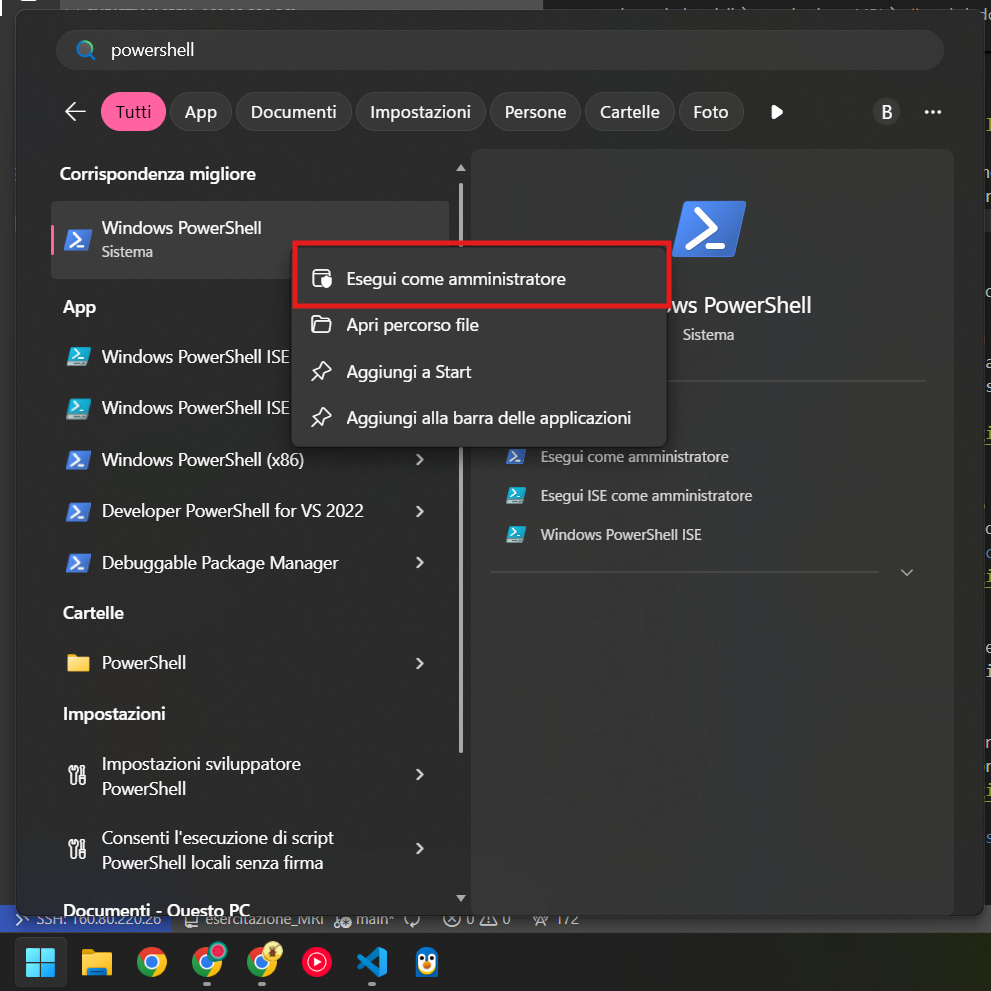
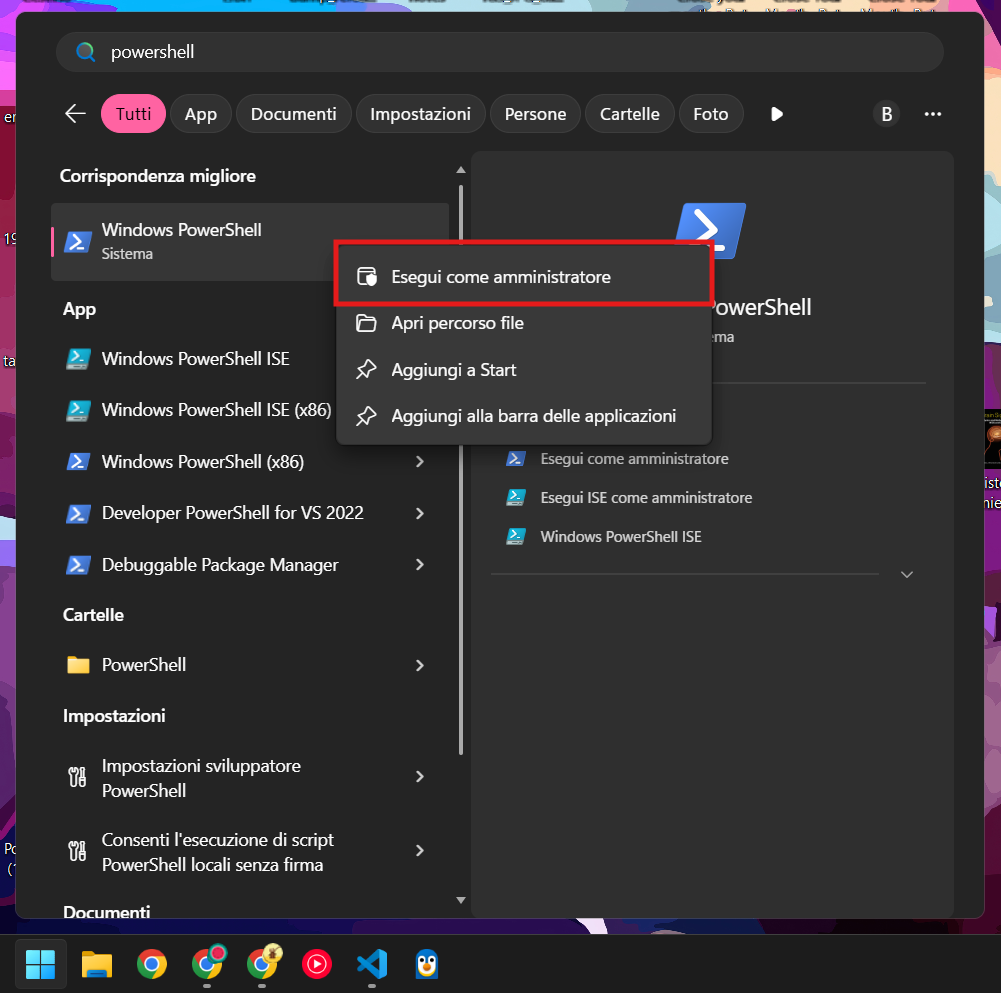
fslinstall

diff --git a/wsl.html b/wsl.html
@@ -1,0 +1,136 @@
+<!DOCTYPE html>
+<html lang="en">
+<head>
+    <meta charset="UTF-8">
+    <meta name="viewport" content="width=device-width, initial-scale=1.0">
+    <title>Esercitazione Neuroscienze Industriali</title>
+    <style>
+        body {
+            font-family: -apple-system, BlinkMacSystemFont, "Segoe UI", sans-serif;
+            background-color: #f6f8fa;
+            color: #24292e;
+            max-width: 800px;
+            margin: 0 auto;
+            padding: 40px 20px;
+            line-height: 1.6;
+        }
+        .container {
+            background: white;
+            padding: 40px;
+            border-radius: 8px;
+            box-shadow: 0 1px 3px rgba(0,0,0,0.1);
+        }
+        .back-link {
+            display: inline-block;
+            margin-bottom: 20px;
+            color: #0366d6;
+            text-decoration: none;
+            font-weight: 600;
+        }
+        .back-link:hover { text-decoration: underline; }
+        
+        /* NUOVO STILE PER IL BOTTONE AVANTI */
+        .forward-link {
+            display: inline-block;
+            margin-top: 20px;
+            padding: 12px 24px;
+            background-color: #2ea44f; /* Verde per incoraggiare a procedere */
+            color: white;
+            text-decoration: none;
+            border-radius: 6px;
+            font-weight: 600;
+            transition: background-color 0.2s;
+        }
+        .forward-link:hover { background-color: #2c974b; }
+
+        code {
+            background-color: #e1e4e8;
+            padding: 4px 8px;
+            border-radius: 4px;
+            font-family: monospace;
+        }
+        .code-block {
+            background-color: #1b1f23;
+            color: #f8f8f2;
+            padding: 16px;
+            border-radius: 6px;
+            margin: 16px 0;
+        }
+        .notice {
+            background-color: #fffbdd;
+            border-left: 4px solid #e3cc00;
+            padding: 16px;
+            margin: 20px 0;
+        }
+    </style>
+</head>
+
+<body>
+<div class="container">
+    <a href="index.html" class="back-link">← Torna alla selezione del sistema operativo</a>
+    
+    <h2>🖥 Installazione del WSL (Windows Linux Subsystem)</h2>
+    <p>Molti tool di sviluppo sono scritti per Linux. Per questo motivo, dobbiamo installare il <strong>Sottosistema Windows per Linux (WSL)</strong>. Questo ti permette di eseguire un ambiente Linux direttamente all'interno di Windows.</p>
+    
+    <ol>
+        <li>
+            <strong>Apri PowerShell come Amministratore:</strong>
+            <ul>
+                <li>Fai clic sul menu Start e digita <code>PowerShell</code>.</li>
+                <li>Fai clic con il tasto destro su "Windows PowerShell" e seleziona <strong>Esegui come amministratore</strong>.</li>
+                <li>Consenti a PowerShell di apportare modifiche al dispositivo facendo clic su "Sì" quando richiesto dal Controllo dell'account utente.</li>
+            </ul>
+            <img src="images/powershell.png" alt="Aprire PowerShell come amministratore" style="max-width: 100%; border-radius: 6px; margin: 15px 0; border: 1px solid #e1e4e8;">
+        </li>
+        <li>
+            <strong>Esegui il comando di installazione:</strong>
+            <p>Copia il seguente testo, incollalo nella finestra di PowerShell e premi Invio:</p>
+            <div class="code-block"><code>wsl --install</code></div>
+            <p>Se necessario, segui le istruzioni a schermo per completare l'installazione.</p>
+            <img src="images/cmd.png" alt="Eseguire wsl --install in PowerShell" style="max-width: 100%; border-radius: 6px; margin: 15px 0; border: 1px solid #e1e4e8;">
+        </li>
+        <li>
+            <strong>Riavvia il computer:</strong>
+            <p>Una volta terminata l'installazione, riavvia il PC per applicare le modifiche.</p>
+        </li>
+        <li>
+            <strong>Installa Ubuntu e crea il tuo account:</strong>
+            <p>Una volta riavviato il PC, apri di nuovo una istanza di PowerShell come amministratore.</p>
+            <p>Copia il seguente testo, incollalo nella finestra di PowerShell e premi Invio:</p>
+            <div class="code-block"><code>wsl --install Ubuntu</code></div>
+            <p>Alla fine del processo di installazione (che potrebbe richiedere un po' in base alla velocità della tua connessione), ti verrà chiesto di creare un nome utente e una password per Linux.</p>
+            <img src="images/unix.png" alt="Creazione account UNIX" style="max-width: 100%; border-radius: 6px; margin: 15px 0; border: 1px solid #e1e4e8;">
+            <div class="notice">
+                <strong>NOTA:</strong> Questo nome utente e password sono del tutto indipendenti da quelli di Windows. Scegli quelli che preferisci (e non dimenticarli, ti serviranno dopo per installare i tool!).<br><br>
+                <strong>IMPORTANTE:</strong> Quando digiti la password, non apparirà nulla sullo schermo (nessun asterisco). È del tutto normale in Linux! Digitala con attenzione e premi Invio.
+                <strong>FYI:</strong> Ubuntu e Linux non sono la stessa cosa, Ubuntu è un sistema operativo costruito su Linux (una "distro"), ma ne esistono anche altri. Ai fini di questa esercitazione, Ubuntu andrà più che bene.
+            </div>
+        </li>
+        <li>
+            <strong>Apriamo un terminale Linux!</strong>
+            <p>L'installazione è completa! Per aprire un nuovo terminale Linux, fai clic sul menu Start e digita <code>Ubuntu</code>.</p>
+            <img src="images/ubuntu.png" alt="Come aprire un terminale di Ubuntu" style="max-width: 100%; border-radius: 6px; margin: 15px 0; border: 1px solid #e1e4e8;">
+            <p>Cliccandolo, si dovrebbe aprire una finestra simile a questa:</p>
+            <img src="images/ubuntuesempio.png" alt="Esempio terminale Ubuntu" style="max-width: 100%; border-radius: 6px; margin: 15px 0; border: 1px solid #e1e4e8;">
+        </li>
+        <li>
+            <strong>Aggiorna Ubuntu e installa alcune dipendenze:</strong>
+            <p>Nel terminale Ubuntu appena aperto, incolla questi comandi e premi invio:</p>
+            <div class="code-block">
+                <code>sudo apt update</code>
+                <code>sudo apt -y upgrade</code>
+                <code>sudo apt install -y dc python3 bzip2 mesa-utils gedit firefox libgomp1</code>
+            </div>
+            <p>Ti verrà chiesto di inserire una password, questa è la stessa password che hai creato poco fa!</p>
+            <div class="notice">
+                <strong>RICORDA:</strong> Quando digiti la password, non appare nulla sullo schermo, ma stai comunque scrivendo!
+            </div>
+        </li>
+    </ol>
+    <p>🎉 <strong>Finito!</strong> Ora hai un ambiente Linux completo in esecuzione all'interno di Windows.</p>
+    
+    <a href="fsl.html" class="forward-link">Procedi per installare FSL →</a>
+</div>
+
+</body>
+</html>

diff --git a/fsl.html b/fsl.html
@@ -1,0 +1,142 @@
+<!DOCTYPE html>
+<html lang="en">
+<head>
+    <meta charset="UTF-8">
+    <meta name="viewport" content="width=device-width, initial-scale=1.0">
+    <title>Installazione FSL</title>
+    <style>
+        body {
+            font-family: -apple-system, BlinkMacSystemFont, "Segoe UI", sans-serif;
+            background-color: #f6f8fa;
+            color: #24292e;
+            max-width: 800px;
+            margin: 0 auto;
+            padding: 40px 20px;
+            line-height: 1.6;
+        }
+        .container {
+            background: white;
+            padding: 40px;
+            border-radius: 8px;
+            box-shadow: 0 1px 3px rgba(0,0,0,0.1);
+        }
+        .back-link {
+            display: inline-block;
+            margin-bottom: 20px;
+            color: #0366d6;
+            text-decoration: none;
+            font-weight: 600;
+        }
+        .back-link:hover { text-decoration: underline; }
+        
+        .forward-link {
+            display: inline-block;
+            margin-top: 20px;
+            padding: 12px 24px;
+            background-color: #2ea44f;
+            color: white;
+            text-decoration: none;
+            border-radius: 6px;
+            font-weight: 600;
+            transition: background-color 0.2s;
+        }
+        .forward-link:hover { background-color: #2c974b; }
+
+        code {
+            background-color: #e1e4e8;
+            padding: 4px 8px;
+            border-radius: 4px;
+            font-family: monospace;
+        }
+        .code-block {
+            background-color: #1b1f23;
+            color: #f8f8f2;
+            padding: 16px;
+            border-radius: 6px;
+            margin: 16px 0;
+            overflow-x: auto; /* Per i comandi lunghi */
+        }
+        .notice {
+            background-color: #fffbdd;
+            border-left: 4px solid #e3cc00;
+            padding: 16px;
+            margin: 20px 0;
+        }
+        .error-notice {
+            background-color: #ffe6e6;
+            border-left: 4px solid #d73a49;
+            padding: 16px;
+            margin: 20px 0;
+        }
+        
+        /* Stili per i box specifici per OS */
+        .os-box {
+            padding: 15px;
+            border-radius: 6px;
+            margin-bottom: 20px;
+            border: 1px solid #e1e4e8;
+        }
+        .os-box-win { background-color: #f1f8ff; border-left: 4px solid #0366d6; }
+        .os-box-mac { background-color: #f0fdf4; border-left: 4px solid #2ea44f; }
+        .os-box h4 { margin-top: 0; }
+    </style>
+</head>
+
+<body>
+<div class="container">
+    <a href="index.html" class="back-link">← Torna all'inizio</a>
+    
+    <h2>🧠 Installazione di FSL</h2>
+    <p>FSL (FMRIB Software Library) è una libreria fondamentale per l'analisi dei dati di risonanza magnetica. Fortunatamente, la procedura di installazione è la stessa sia per chi usa WSL (Windows) sia per chi usa macOS!</p>
+    
+    <ol>
+        <li>
+            <strong>Apri il tuo Terminale:</strong>
+            
+            <div class="os-box os-box-win">
+                <h4>🖥 Se usi Windows (WSL)</h4>
+                Apri l'app <strong>Ubuntu</strong> che hai installato in precedenza (cerca "Ubuntu" nel menu Start).
+            </div>
+            
+            <div class="os-box os-box-mac">
+                <h4>🍎 Se usi macOS</h4>
+                Apri l'app <strong>Terminale</strong>. Puoi trovarla usando Spotlight (Cmd + Spazio) e digitando "Terminale", oppure navigando nel Finder in <em>Applicazioni > Utility > Terminale</em>.
+            </div>
+        </li>
+        <li>
+            <strong>Esegui il comando di installazione:</strong>
+            <p>Copia l'intero comando qui sotto, incollalo nel tuo terminale e premi <strong>Invio</strong>:</p>
+            <div class="code-block"><code>cd ~ && curl -Ls https://fsl.fmrib.ox.ac.uk/fsldownloads/fslconda/releases/getfsl.sh | sh -s</code></div>
+        </li>
+        <li>
+            <strong>Attendi il completamento:</strong>
+            <p>Ora ci vuole pazienza. Lo script scaricherà e installerà tutto il necessario. Se hai una connessione veloce ci vorranno circa 10-15 minuti, altrimenti potrebbe volerci di più. Il terminale mostrerà l'avanzamento dell'installazione.</p>
+        </li>
+        <li>
+            <strong>Verifica il successo:</strong>
+            <p>Leggi attentamente l'output finale. Se tutto è andato a buon fine, vedrai questo messaggio:</p>
+            <div class="code-block"><code>FSL successfully installed</code></div>
+            <img src="images/fslinstalled.png" alt="FSL installato" style="max-width: 100%; border-radius: 6px; margin: 15px 0; border: 1px solid #e1e4e8;">
+            <div class="notice">
+                <strong>Importante:</strong> Una volta vista questa scritta, <strong>chiudi completamente e apri una nuova finestra del terminale</strong> per applicare le modifiche.
+            </div>
+        </li>
+    </ol>
+
+    <div class="error-notice">
+        <strong>❌ Non vedi il messaggio di successo?</strong><br>
+        Se si sono verificati errori e l'installazione è fallita:
+        <ol>
+            <li>Salva una copia di tutto il testo che l'installatore ha stampato nel terminale.</li>
+            <li>Cerca nella tua cartella home un file chiamato <code>fsl_installation_&lt;data&gt;.log</code> (dove &lt;data&gt; è la data odierna).</li>
+            <li>Invia questi dati al docente o all'assistente per ricevere supporto!</li>
+        </ol>
+    </div>
+
+    <p>🎉 <strong>Ottimo lavoro!</strong> FSL è ora installato sul tuo sistema.</p>
+    
+    <a href="conda.html" class="forward-link">Procedi per installare Miniconda e Jupyter →</a>
+</div>
+
+</body>
+</html>

diff --git a/index.html b/index.html
@@ -25,6 +25,7 @@
             justify-content: center;
             gap: 20px;
             margin-top: 30px;
+            flex-wrap: wrap; /* Utile se il testo del terzo bottone è lungo, per adattarlo a schermi più piccoli */
         }
         .btn {
             display: inline-block;
@@ -38,21 +39,36 @@
             transition: background-color 0.2s;
         }
         .btn:hover { background-color: #005cc5; }
+        
         .btn-mac { background-color: #2ea44f; }
         .btn-mac:hover { background-color: #2c974b; }
+        
+        /* Nuovo stile per il bottone di aiuto (Viola) */
+        .btn-help { background-color: #6f42c1; }
+        .btn-help:hover { background-color: #5a32a3; }
+
+        /* Stile pulito per i link testuali all'interno dei paragrafi */
+        p a {
+            color: #0366d6;
+            text-decoration: none;
+            font-weight: 600;
+        }
+        p a:hover {
+            text-decoration: underline;
+        }
     </style>
 </head>
 <body>
 
 <div class="container">
     <h1>Esercitazione 4: MRI</h1>
-    <p>Per la quarta esercitazione, dovrai installare un ambiente di python, e un toolbox molto popolare per analizzare vari tipi di dato dalla risonanza magnetica: <a href="https://fsl.fmrib.ox.ac.uk/fsl/docs/" class="btn">FSL</a>!</p>
+    <p>Per la quarta esercitazione, dovrai installare un ambiente di python, e un toolbox molto popolare per analizzare vari tipi di dato dalla risonanza magnetica: <a href="https://fsl.fmrib.ox.ac.uk/fsl/docs/">FSL</a>!</p>
     <h2>Quale è il tuo sistema operativo?</h2>
     
     <div class="os-selection">
-        <a href="wslwindows.html" class="btn">Windows</a>
-        <a href="fslmac.html" class="btn btn-mac">macOS</a>
-        <a href="https://www.youtube.com/watch?v=hvL1339luv0" class="btn btn-mac">Non lo so, aiutami a scoprirlo!</a>
+        <a href="wsl.html" class="btn">Windows</a>
+        <a href="fsl.html" class="btn btn-mac">macOS</a>
+        <a href="https://www.youtube.com/watch?v=hvL1339luv0" class="btn btn-help">Non lo so, aiutami a scoprirlo!</a>
     </div>
 </div>
 
